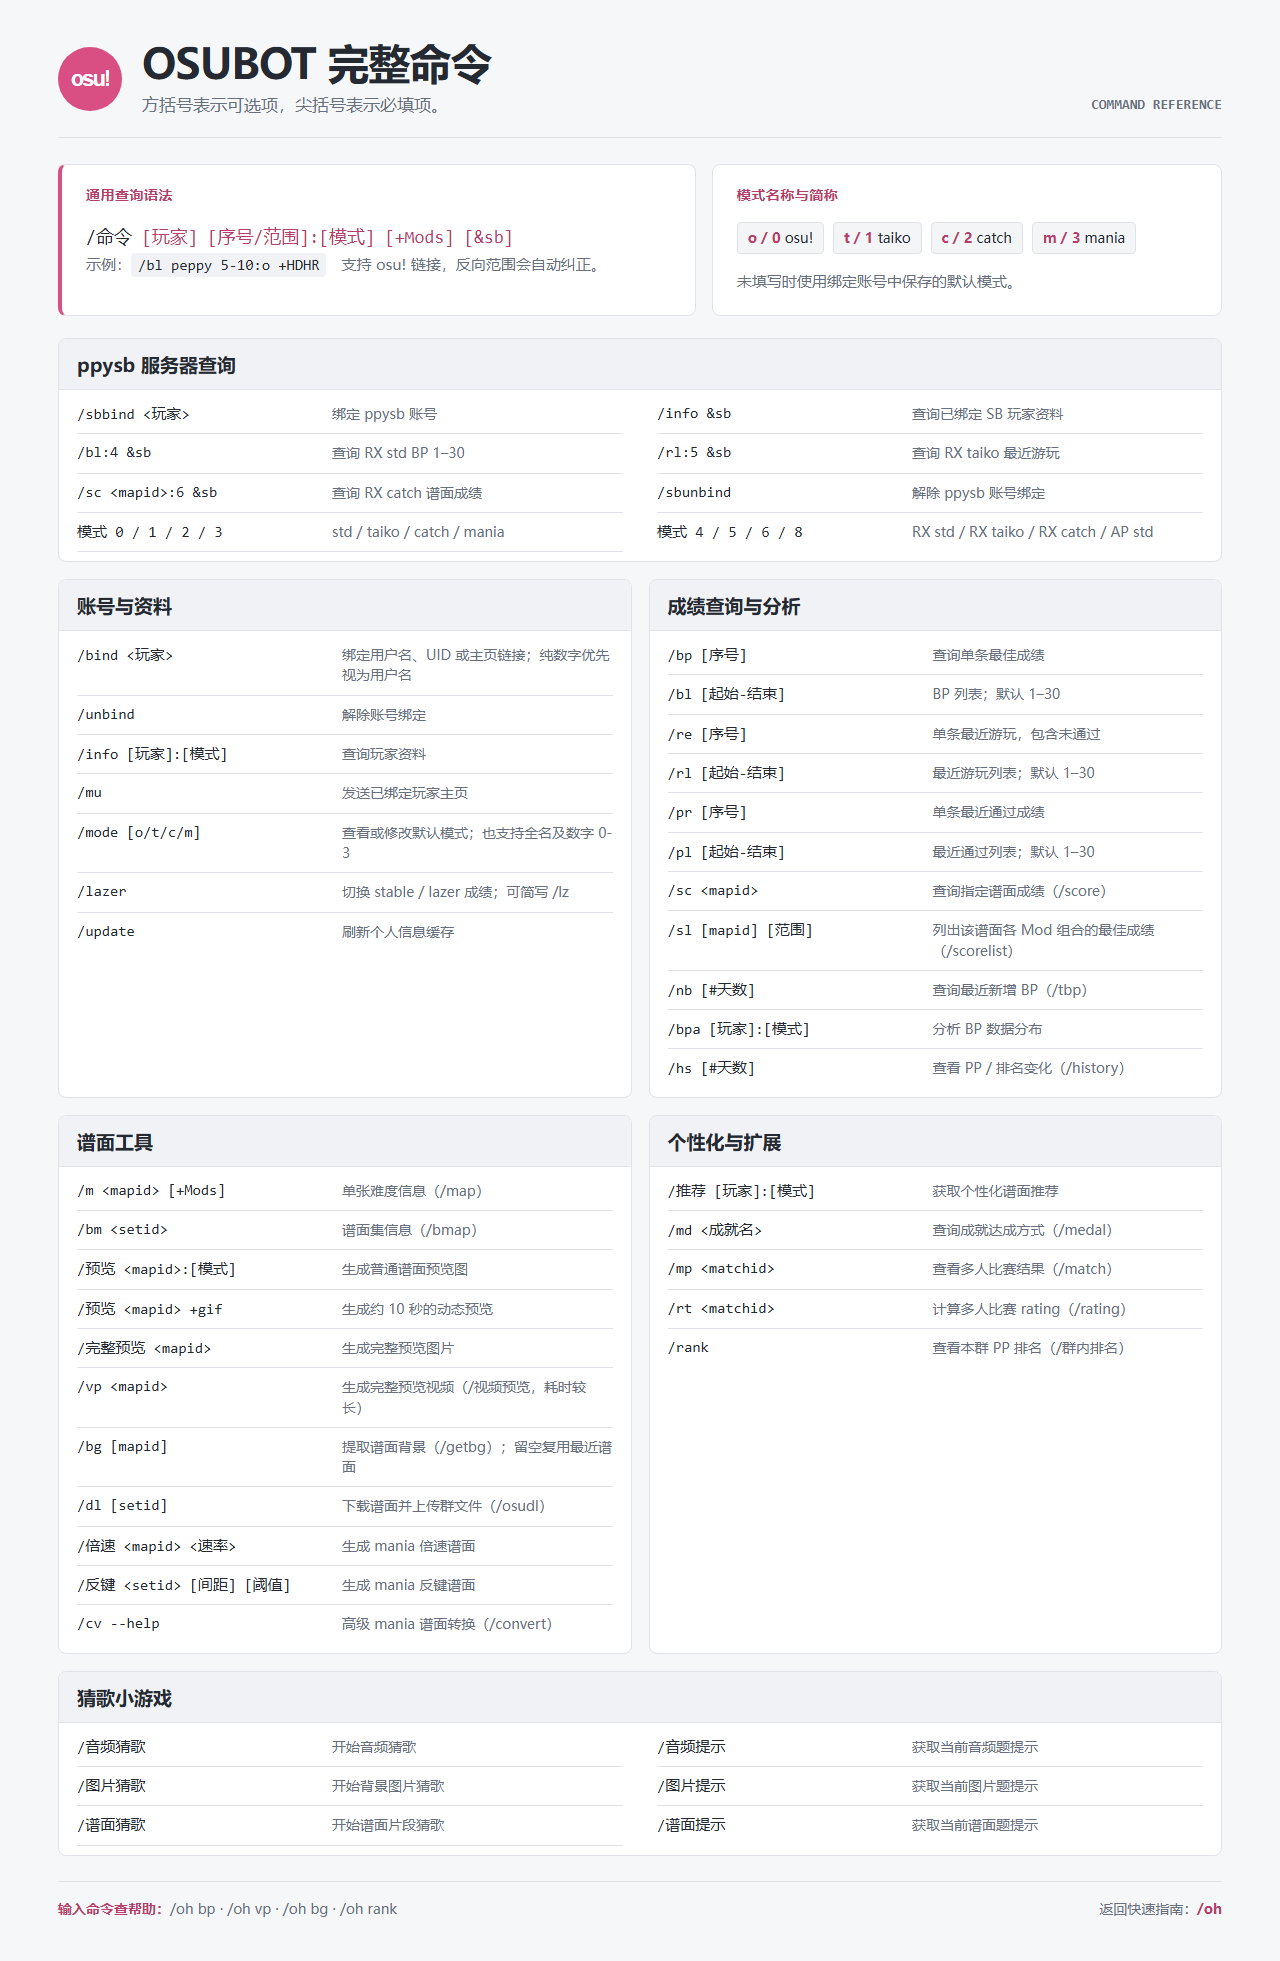
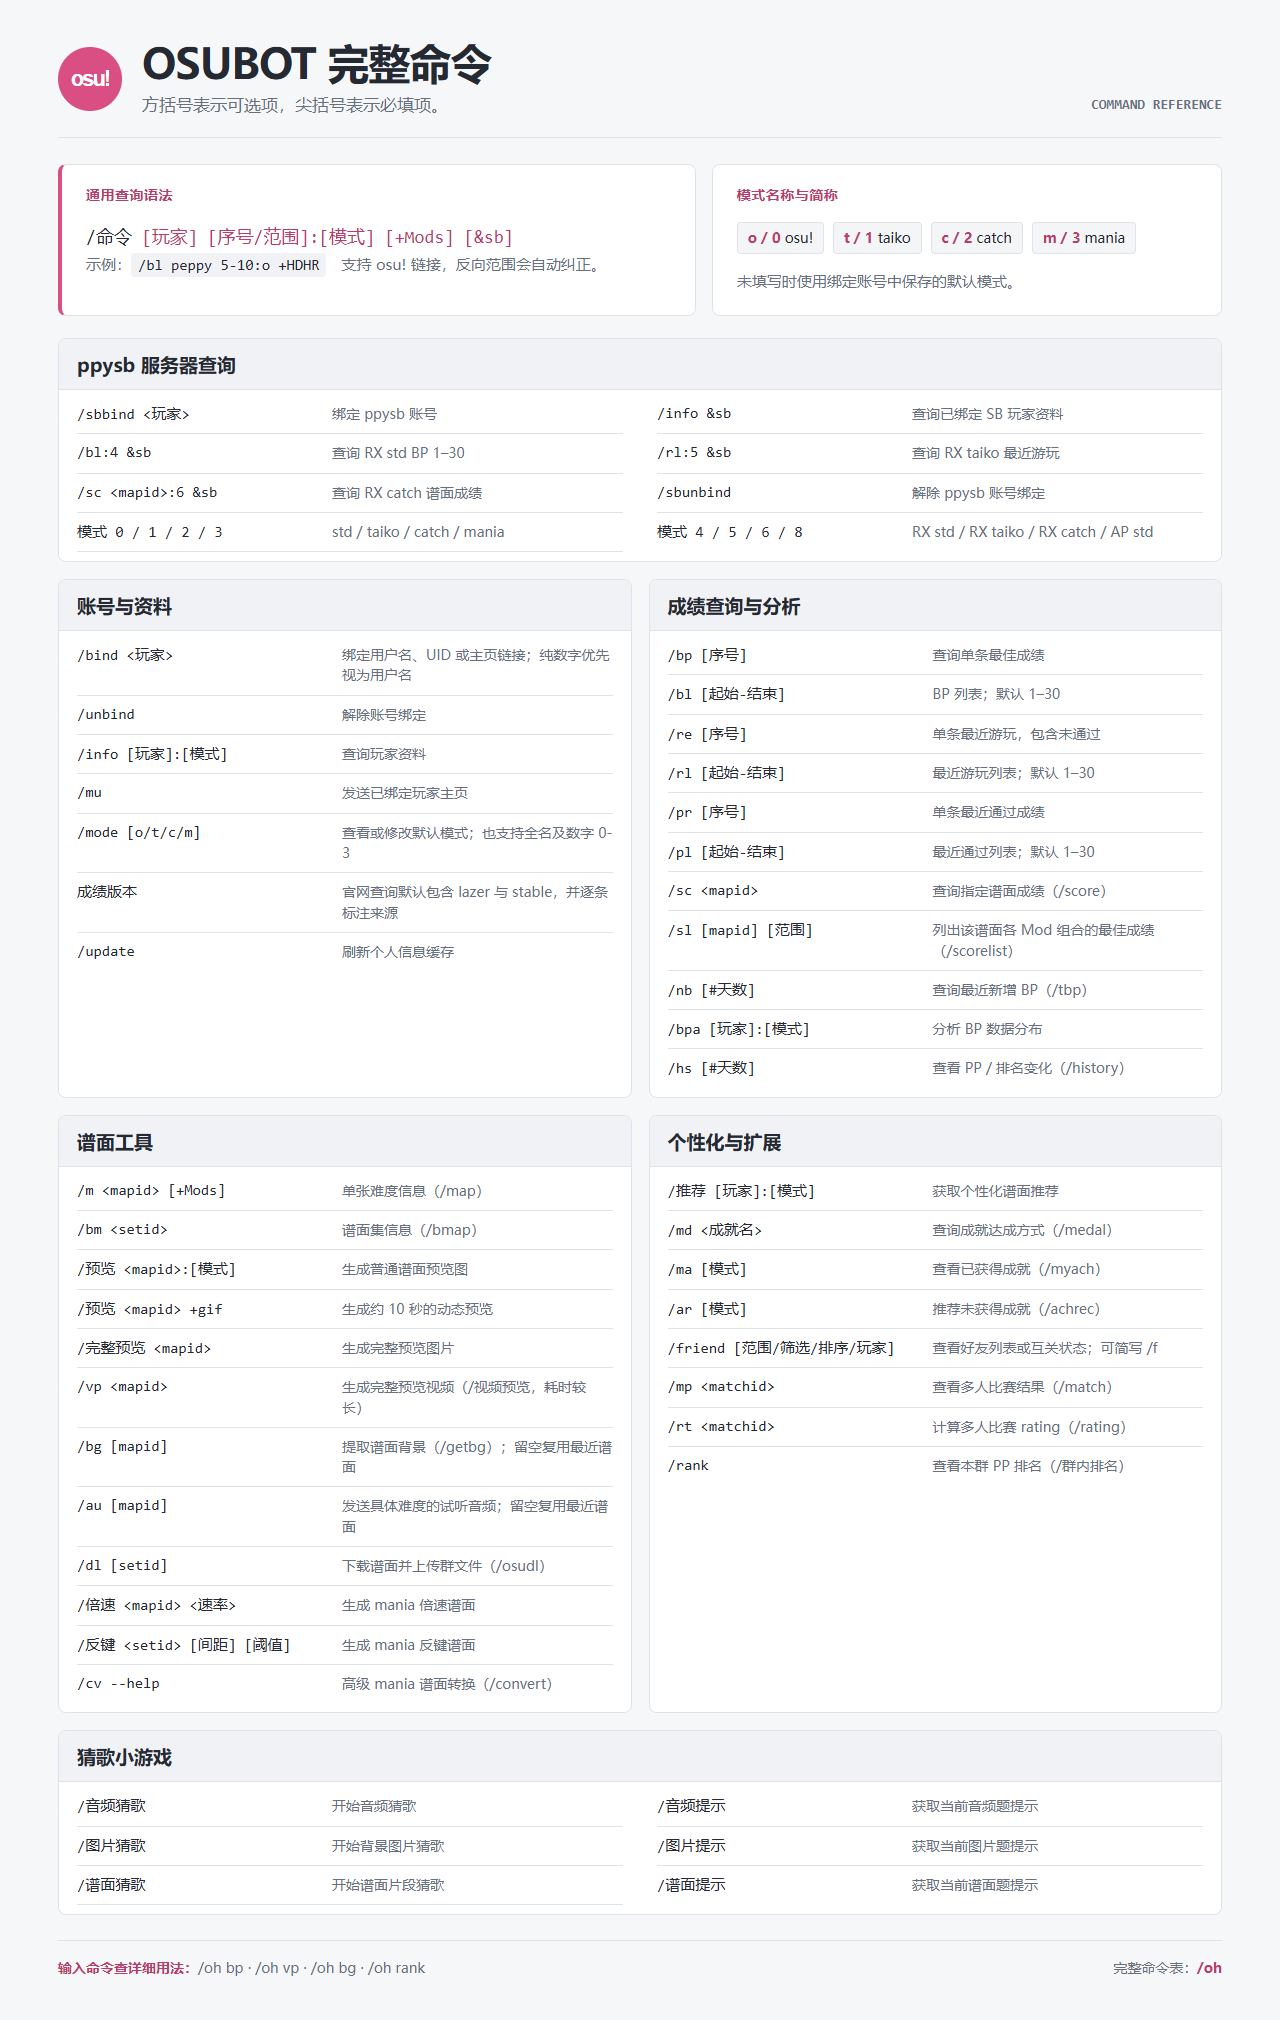
fix: 优化 OAuth 链接清理与帮助入口 (#155)
* fix(friend): recall OAuth URL after authorization

* fix(help): show complete command reference by default

* :rotating_light: auto fix by pre-commit hooks

---------

diff --git a/src/nonebot_plugin_osubot/osufile/help.html b/src/nonebot_plugin_osubot/osufile/help.html
@@ -224,6 +224,7 @@
         <div class="row"><code>/完整预览 &lt;mapid&gt;</code><span>生成完整预览图片</span></div>
         <div class="row"><code>/vp &lt;mapid&gt;</code><span>生成完整预览视频（/视频预览，耗时较长）</span></div>
         <div class="row"><code>/bg [mapid]</code><span>提取谱面背景（/getbg）；留空复用最近谱面</span></div>
+        <div class="row"><code>/au [mapid]</code><span>发送具体难度的试听音频；留空复用最近谱面</span></div>
         <div class="row"><code>/dl [setid]</code><span>下载谱面并上传群文件（/osudl）</span></div>
         <div class="row"><code>/倍速 &lt;mapid&gt; &lt;速率&gt;</code><span>生成 mania 倍速谱面</span></div>
         <div class="row"><code>/反键 &lt;setid&gt; [间距] [阈值]</code><span>生成 mania 反键谱面</span></div>
@@ -235,6 +236,7 @@
         <div class="row"><code>/md &lt;成就名&gt;</code><span>查询成就达成方式（/medal）</span></div>
         <div class="row"><code>/ma [模式]</code><span>查看已获得成就（/myach）</span></div>
         <div class="row"><code>/ar [模式]</code><span>推荐未获得成就（/achrec）</span></div>
+        <div class="row"><code>/friend [范围/筛选/排序/玩家]</code><span>查看好友列表或互关状态；可简写 /f</span></div>
         <div class="row"><code>/mp &lt;matchid&gt;</code><span>查看多人比赛结果（/match）</span></div>
         <div class="row"><code>/rt &lt;matchid&gt;</code><span>计算多人比赛 rating（/rating）</span></div>
         <div class="row"><code>/rank</code><span>查看本群 PP 排名（/群内排名）</span></div>
@@ -250,7 +252,7 @@
       </div></div>
     </section>
 
-    <footer class="footer"><span><strong>输入命令查帮助：</strong>/oh bp · /oh vp · /oh bg · /oh rank</span><span>返回快速指南：<strong>/oh</strong></span></footer>
+    <footer class="footer"><span><strong>输入命令查详细用法：</strong>/oh bp · /oh vp · /oh bg · /oh rank</span><span>完整命令表：<strong>/oh</strong></span></footer>
   </main>
 
   <script>

diff --git a/src/nonebot_plugin_osubot/matcher/friend.py b/src/nonebot_plugin_osubot/matcher/friend.py
@@ -22,6 +22,7 @@ from nonebot.internal.adapter import Event, Message
 from nonebot.log import logger
 from nonebot.params import CommandArg
 from nonebot_plugin_alconna import UniMessage
+from nonebot_plugin_alconna.uniseg import Receipt
 from nonebot_plugin_orm import get_session
 from sqlalchemy import select
 
@@ -45,6 +46,18 @@ from ..friend_oauth import (
 friend = on_command("friend", aliases={"f"}, priority=11, block=True)
 
 
+async def _recall_oauth_message(receipt: Receipt | None) -> None:
+    """尽力撤回包含一次性 OAuth URL 的消息。"""
+    if receipt is None:
+        return
+    try:
+        await receipt.recall()
+    except Exception as error:
+        # 部分适配器虽然暴露撤回接口，仍可能因权限或消息时限拒绝操作；
+        # 撤回失败不应破坏已经完成的授权。
+        logger.debug(f"撤回 OAuth 授权链接失败: {error}")
+
+
 # ===========================================================================
 # /friend：好友列表 / 互关查询
 # ===========================================================================
@@ -59,10 +72,11 @@ async def _friend(event: Event, arg: Message = CommandArg()):
     oauth = await get_valid_oauth(platform_user_id)
     if oauth is None:
         authorization = None
+        authorization_message = None
         try:
             authorization = await begin_authorization()
             expires_minutes = max(1, (authorization.expires_in + 59) // 60)
-            await UniMessage.text(
+            authorization_message = await UniMessage.text(
                 f"首次查询需要授权读取 osu! 好友列表。请在 {expires_minutes} 分钟内点击链接完成授权，"
                 f"完成后本次查询会自动继续：\n{authorization.authorize_url}"
             ).send(reply_to=True)
@@ -75,6 +89,7 @@ async def _friend(event: Event, arg: Message = CommandArg()):
         except NetworkError as error:
             await friend.finish(f"OAuth 授权失败：{error}")
         finally:
+            await _recall_oauth_message(authorization_message)
             if authorization is not None:
                 await discard_authorization(authorization)
         await friend.send(f"OAuth 授权成功，已关联 osu! 账号 {oauth.osu_name}。正在继续查询好友……")

diff --git a/src/nonebot_plugin_osubot/matcher/osu_help.py b/src/nonebot_plugin_osubot/matcher/osu_help.py
@@ -9,10 +9,10 @@ from ..help_data import HELP_TOPICS, TOPIC_ALIASES, TOPIC_LABELS, get_command_he
 
 osu_help = on_command("osuhelp", aliases={"oh", "OSUBot", "osubot", "osu帮助"}, priority=11, block=True)
 
-with open(Path(__file__).parent.parent / "osufile" / "help.png", "rb") as f:
-    img1 = f.read()
 with open(Path(__file__).parent.parent / "osufile" / "detail.png", "rb") as f:
     img2 = f.read()
+# /oh 默认直接展示完整命令表；保留 img1 名称兼容既有导入与测试。
+img1 = img2
 
 
 @osu_help.handle()
@@ -25,6 +25,6 @@ async def _help(arg: Message = CommandArg()):
     topic = TOPIC_ALIASES.get(arg, arg)
     if topic in HELP_TOPICS:
         await UniMessage.text(get_command_help(topic)).finish(reply_to=True)
-    await UniMessage.text(
-        f"没有找到该帮助主题。可用主题：{TOPIC_LABELS}\n发送 /oh 查看快速指南，或发送 /oh detail 查看完整命令。"
-    ).finish(reply_to=True)
+    await UniMessage.text(f"没有找到该帮助主题。可用主题：{TOPIC_LABELS}\n发送 /oh 查看完整命令表。").finish(
+        reply_to=True
+    )

diff --git a/tests/test_friend.py b/tests/test_friend.py
@@ -102,6 +102,26 @@ async def test_friend_avatar_uses_dedicated_cache_name(after_nonebot_init: None,
 
 
 @pytest.mark.asyncio
+async def test_oauth_url_message_is_recalled(after_nonebot_init: None):
+    from nonebot_plugin_osubot.matcher.friend import _recall_oauth_message
+
+    receipt = SimpleNamespace(recall=AsyncMock())
+
+    await _recall_oauth_message(receipt)
+
+    receipt.recall.assert_awaited_once_with()
+
+
+@pytest.mark.asyncio
+async def test_oauth_url_recall_failure_does_not_break_authorization(after_nonebot_init: None):
+    from nonebot_plugin_osubot.matcher.friend import _recall_oauth_message
+
+    receipt = SimpleNamespace(recall=AsyncMock(side_effect=RuntimeError("recall unsupported")))
+
+    await _recall_oauth_message(receipt)
+
+
+@pytest.mark.asyncio
 async def test_relay_authorization_round_trip(after_nonebot_init: None):
     from nonebot_plugin_osubot.friend_oauth import begin_authorization, wait_for_authorization
 

diff --git a/tests/test_simple_matchers.py b/tests/test_simple_matchers.py
@@ -109,6 +109,12 @@ async def test_osu_help_default(app: App):
         ctx.should_finished()
 
 
+def test_osu_help_default_image_is_complete_command_reference(after_nonebot_init: None):
+    from nonebot_plugin_osubot.matcher.osu_help import img1, img2
+
+    assert img1 == img2
+
+
 @pytest.mark.asyncio
 async def test_osu_help_detail(app: App):
     """/osuhelp detail：发送详情图片。"""
